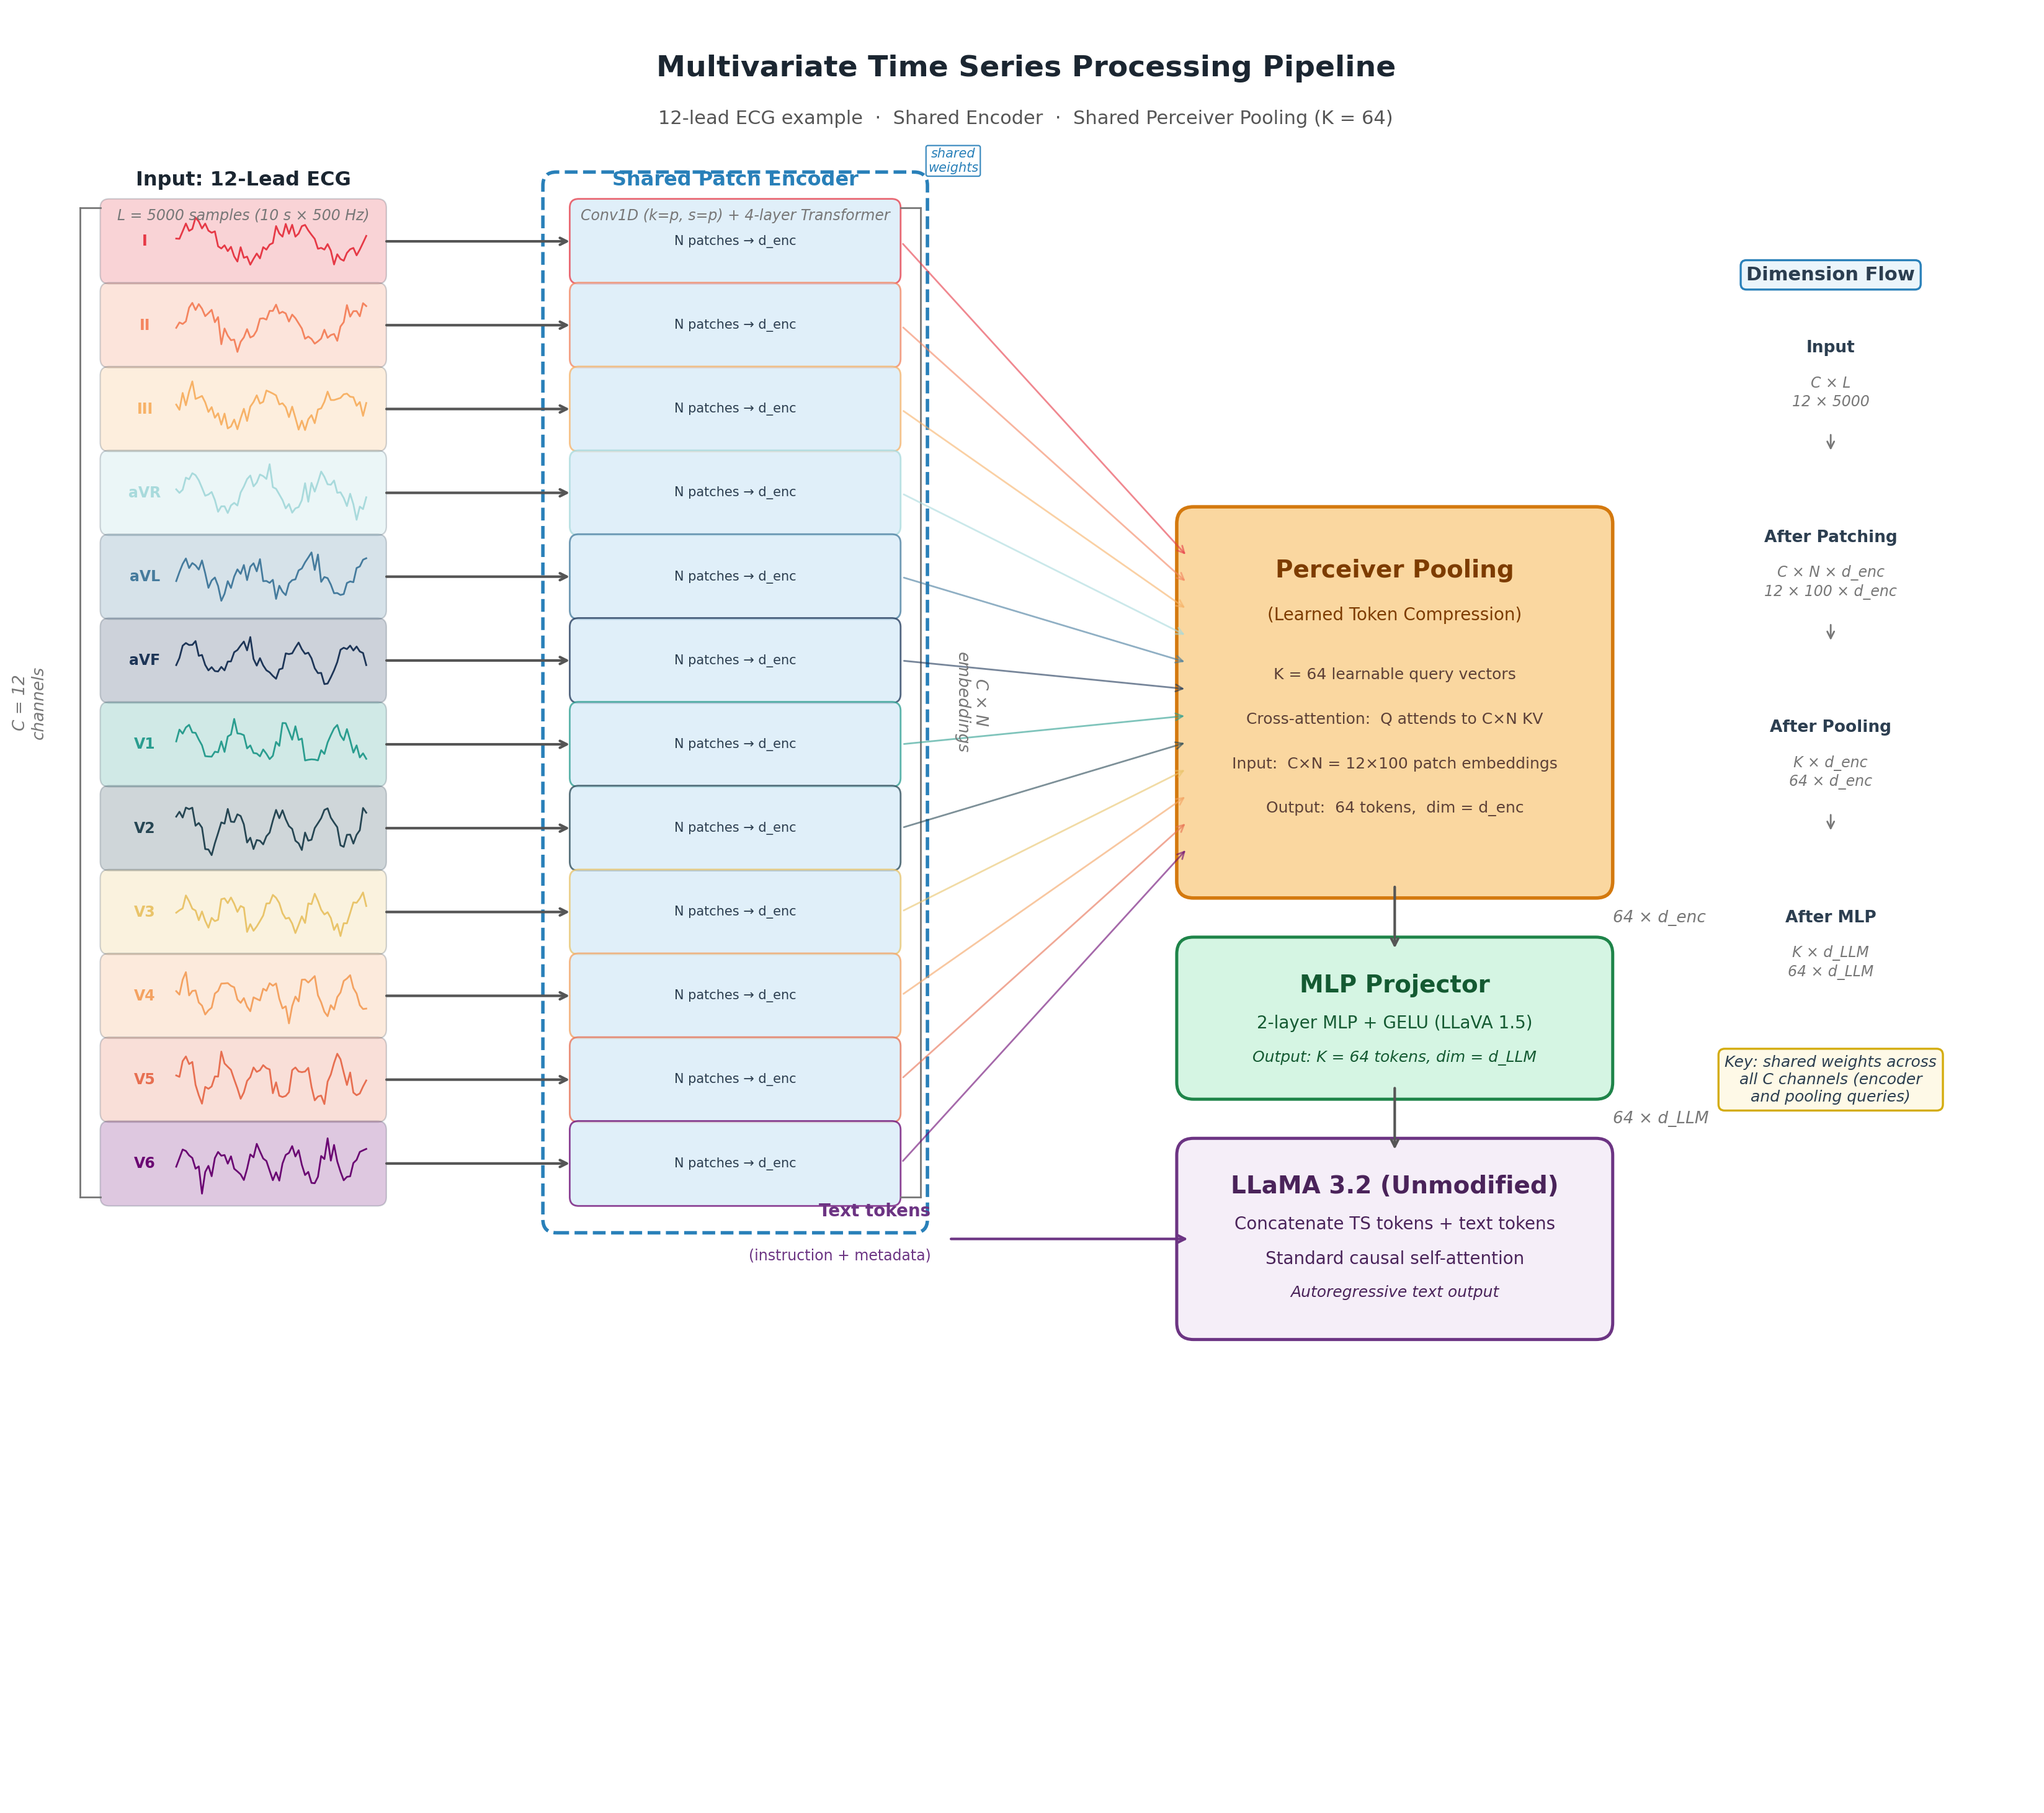
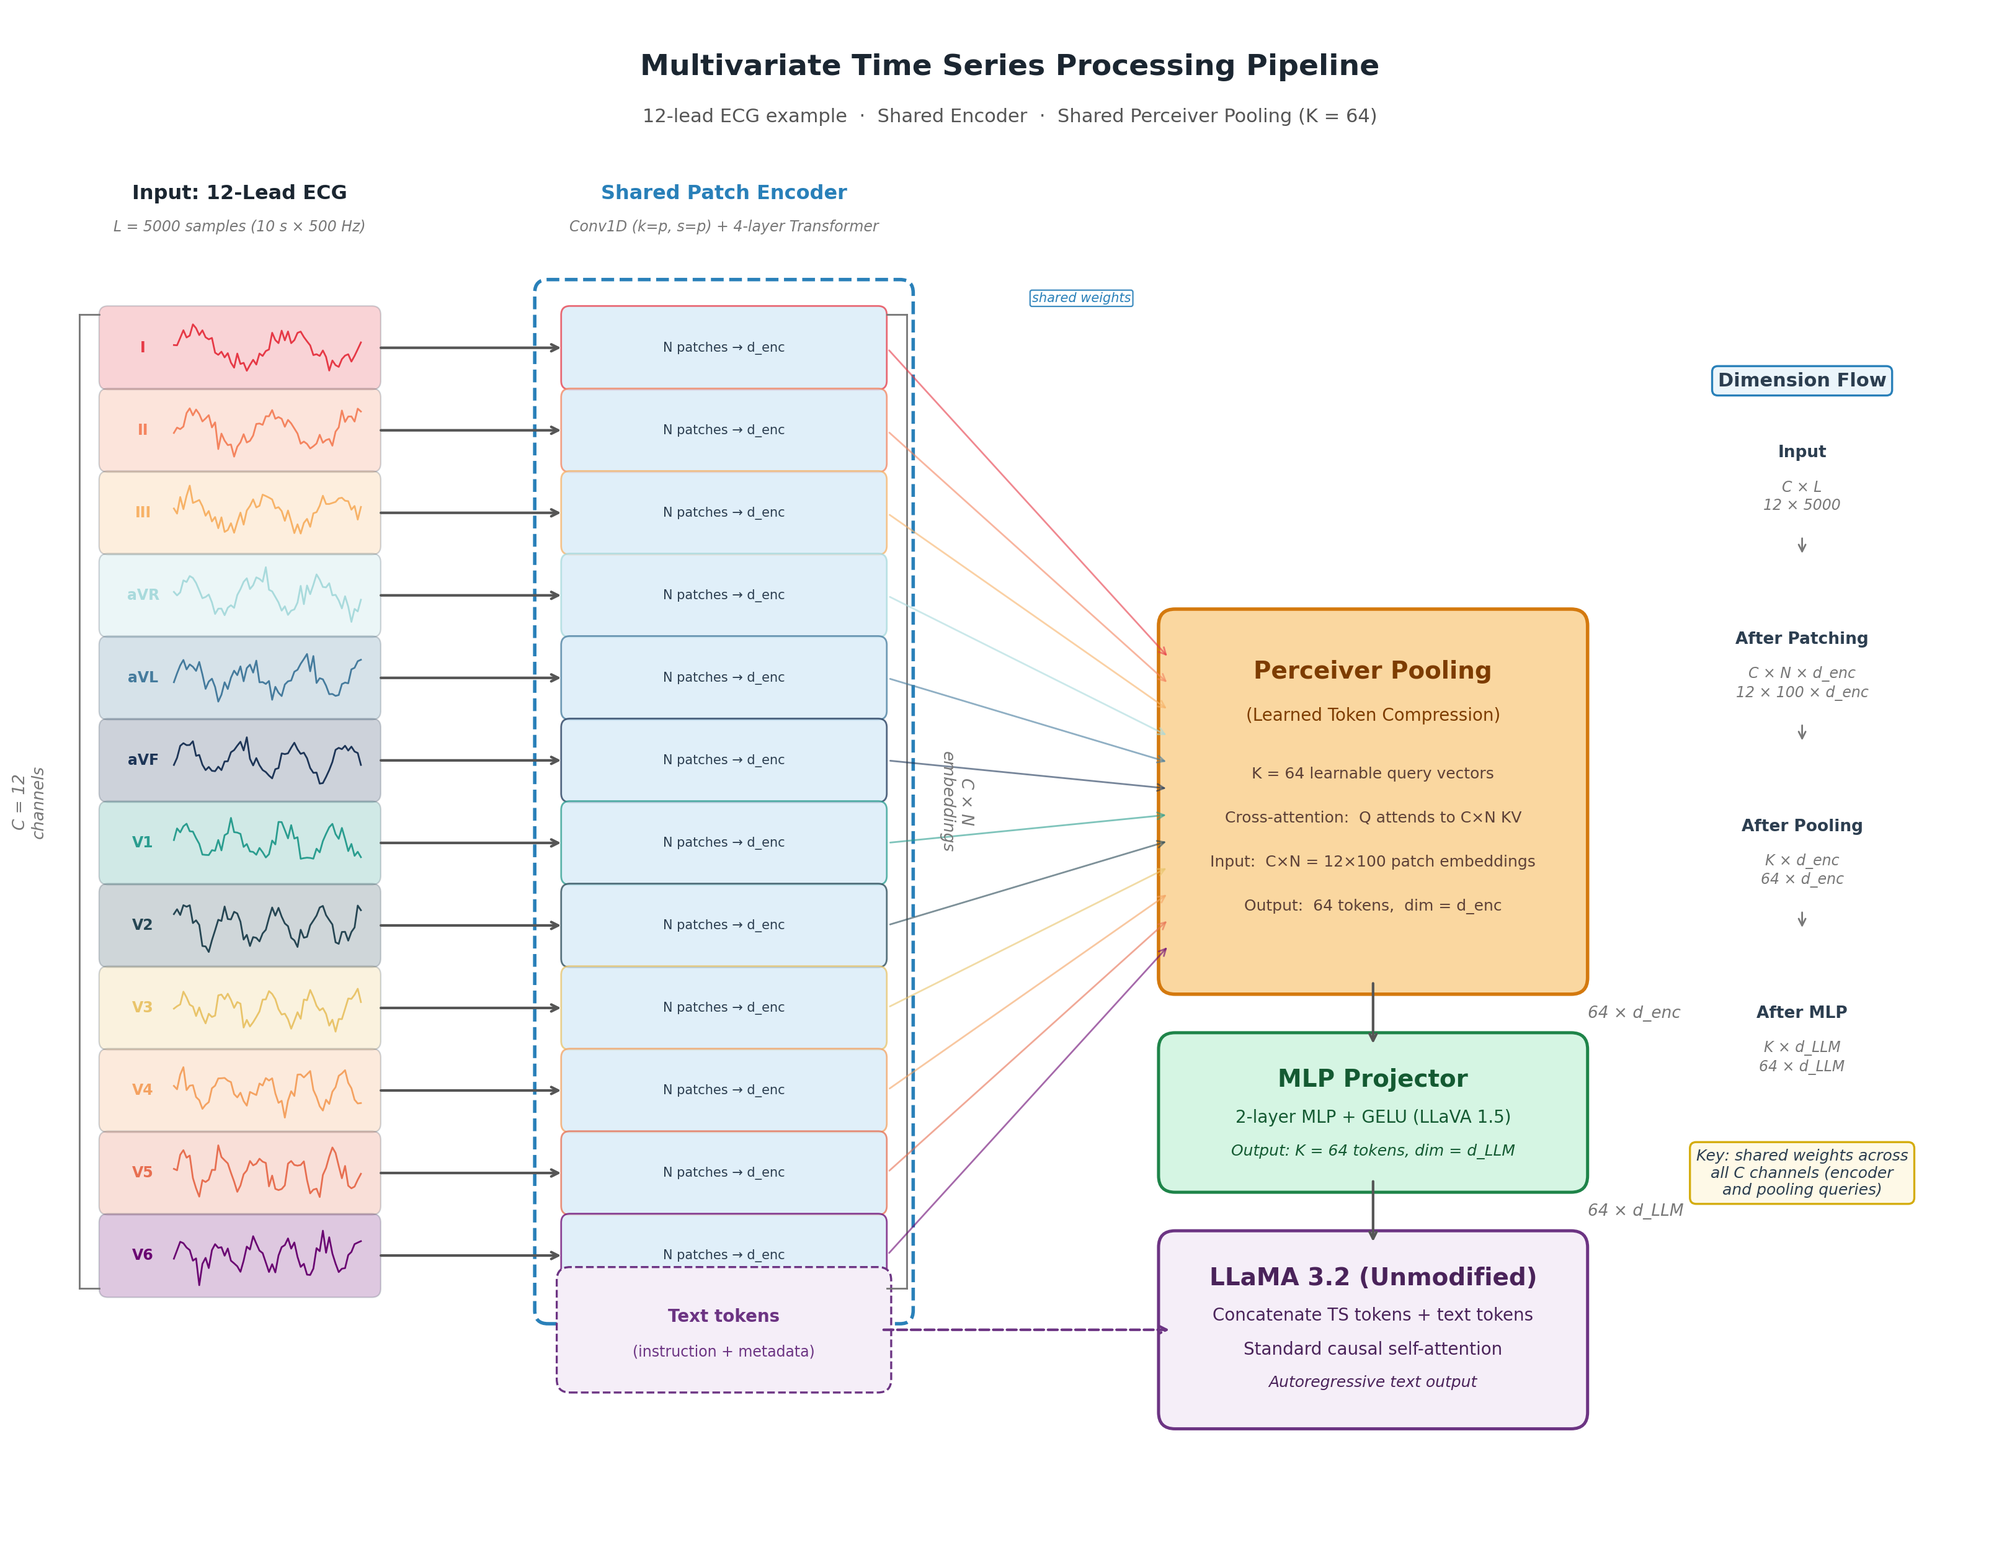
Fix figures after review for llava

diff --git a/llava/fig_005.py b/llava/fig_005.py
@@ -26,9 +26,9 @@ BORDER_DARK = '#2C3E50'
 ARROW_COLOR = '#555555'
 DIM_COLOR = '#777777'
 
-fig, ax = plt.subplots(figsize=(18, 14.5))
+fig, ax = plt.subplots(figsize=(18, 12.5))
 ax.set_xlim(0, 18)
-ax.set_ylim(-1.5, 14.5)
+ax.set_ylim(1.5, 15.5)
 ax.set_aspect('equal')
 ax.axis('off')
 fig.patch.set_facecolor(BG_WHITE)
@@ -62,10 +62,10 @@ def bracket(x, y_top, y_bot, text, side='left'):
 # ═══════════════════════════════════════════════════════
 # TITLE (plenty of room at top)
 # ═══════════════════════════════════════════════════════
-ax.text(9, 14.0, 'Multivariate Time Series Processing Pipeline',
+ax.text(9, 15.0, 'Multivariate Time Series Processing Pipeline',
         ha='center', va='center', fontsize=17, fontweight='bold',
         color='#1B2631', zorder=10)
-ax.text(9, 13.55, '12-lead ECG example  ·  Shared Encoder  ·  Shared Perceiver Pooling (K = 64)',
+ax.text(9, 14.55, '12-lead ECG example  ·  Shared Encoder  ·  Shared Perceiver Pooling (K = 64)',
         ha='center', va='center', fontsize=11, color='#555555', zorder=10)
 
 # ═══════════════════════════════════════════════════════
@@ -74,8 +74,8 @@ ax.text(9, 13.55, '12-lead ECG example  ·  Shared Encoder  ·  Shared Perceiver
 col1_cx = 2.0        # center of input column
 col2_cx = 6.4        # center of encoder column
 
-header_y = 13.0
-subheader_y = 12.68
+header_y = 13.85
+subheader_y = 13.55
 
 ax.text(col1_cx, header_y, 'Input: 12-Lead ECG',
         ha='center', va='center', fontsize=11.5, fontweight='bold',
@@ -153,9 +153,9 @@ enc_bbox = FancyBboxPatch(
     linewidth=2.0, linestyle='--', zorder=1)
 ax.add_patch(enc_bbox)
 
-# Shared-weights label at top-right of dashed box
-ax.text(enc_x + enc_w + pad + 0.35, enc_ys[0] + enc_h + pad + 0.10,
-        'shared\nweights', ha='center', va='bottom',
+# Shared-weights label to the right of the dashed box (moved to avoid overlapping title)
+ax.text(enc_x + enc_w + pad + 1.2, enc_ys[0] + enc_h + pad - 0.05,
+        'shared weights', ha='left', va='center',
         fontsize=7.5, color='#2980B9', fontstyle='italic', zorder=6,
         bbox=dict(boxstyle='round,pad=0.15', facecolor='white',
                   edgecolor='#2980B9', lw=0.8, alpha=0.9))
@@ -267,18 +267,30 @@ ax.text(mlp_x + mlp_w + 0.15, (mlp_y + llm_y + llm_h) / 2,
         '64 × d_LLM', ha='left', va='center',
         fontsize=9.5, color=DIM_COLOR, fontstyle='italic', zorder=6)
 
-# Text tokens arrow (from left)
-ax.annotate('', xy=(llm_x - 0.02, llm_y + llm_h / 2),
-            xytext=(llm_x - 2.2, llm_y + llm_h / 2),
-            arrowprops=dict(arrowstyle='->', color='#6C3483',
-                            lw=1.5, connectionstyle='arc3,rad=0'),
-            zorder=5)
-ax.text(llm_x - 2.35, llm_y + llm_h / 2 + 0.25,
-        'Text tokens', ha='right', va='center',
+# Text tokens box and arrow (from left)
+# Dashed box around "Text tokens" for visual clarity and padding
+text_box_x = llm_x - 5.5
+text_box_w = 2.8
+text_box_h = 0.9
+text_box_y = llm_y + llm_h / 2 - text_box_h / 2
+text_box = FancyBboxPatch(
+    (text_box_x, text_box_y), text_box_w, text_box_h,
+    boxstyle='round,pad=0.12',
+    facecolor='#F5EEF8', edgecolor='#6C3483',
+    linewidth=1.2, linestyle='--', zorder=2)
+ax.add_patch(text_box)
+ax.text(text_box_x + text_box_w / 2, text_box_y + text_box_h / 2 + 0.12,
+        'Text tokens', ha='center', va='center',
         fontsize=10, color='#6C3483', fontweight='bold', zorder=6)
-ax.text(llm_x - 2.35, llm_y + llm_h / 2 - 0.15,
-        '(instruction + metadata)', ha='right', va='center',
+ax.text(text_box_x + text_box_w / 2, text_box_y + text_box_h / 2 - 0.20,
+        '(instruction + metadata)', ha='center', va='center',
         fontsize=8.5, color='#6C3483', zorder=6)
+# Arrow from text box to LLM
+ax.annotate('', xy=(llm_x - 0.02, llm_y + llm_h / 2),
+            xytext=(text_box_x + text_box_w + 0.02, text_box_y + text_box_h / 2),
+            arrowprops=dict(arrowstyle='->', color='#6C3483',
+                            lw=1.5, linestyle='--', connectionstyle='arc3,rad=0'),
+            zorder=5)
 
 # ═══════════════════════════════════════════════════════
 # DIMENSION FLOW SIDEBAR (far right)
